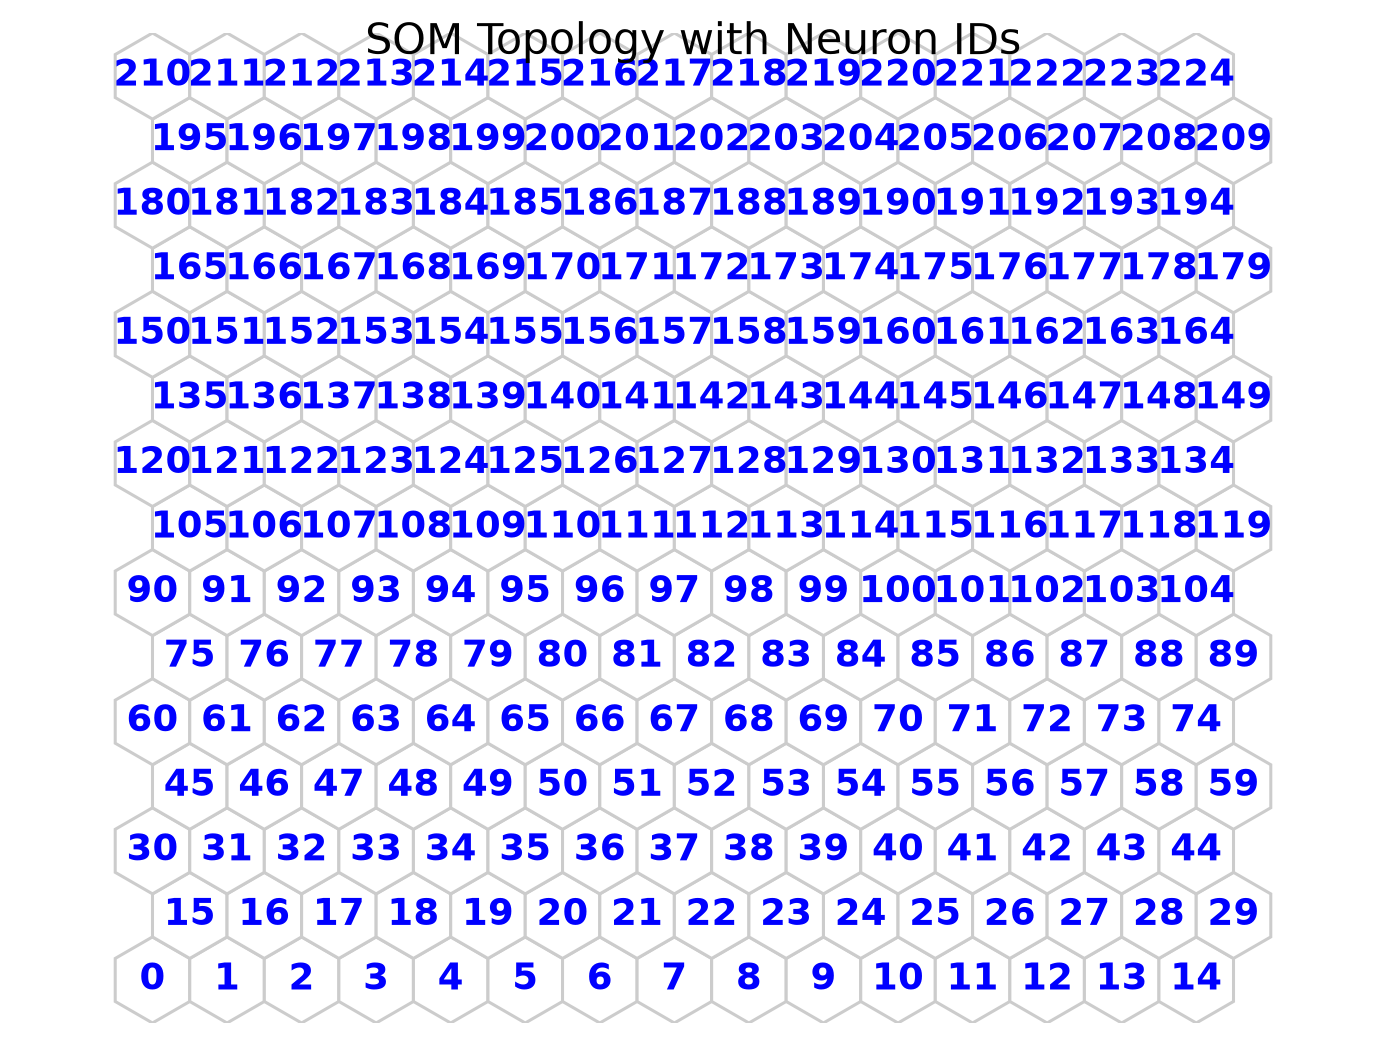
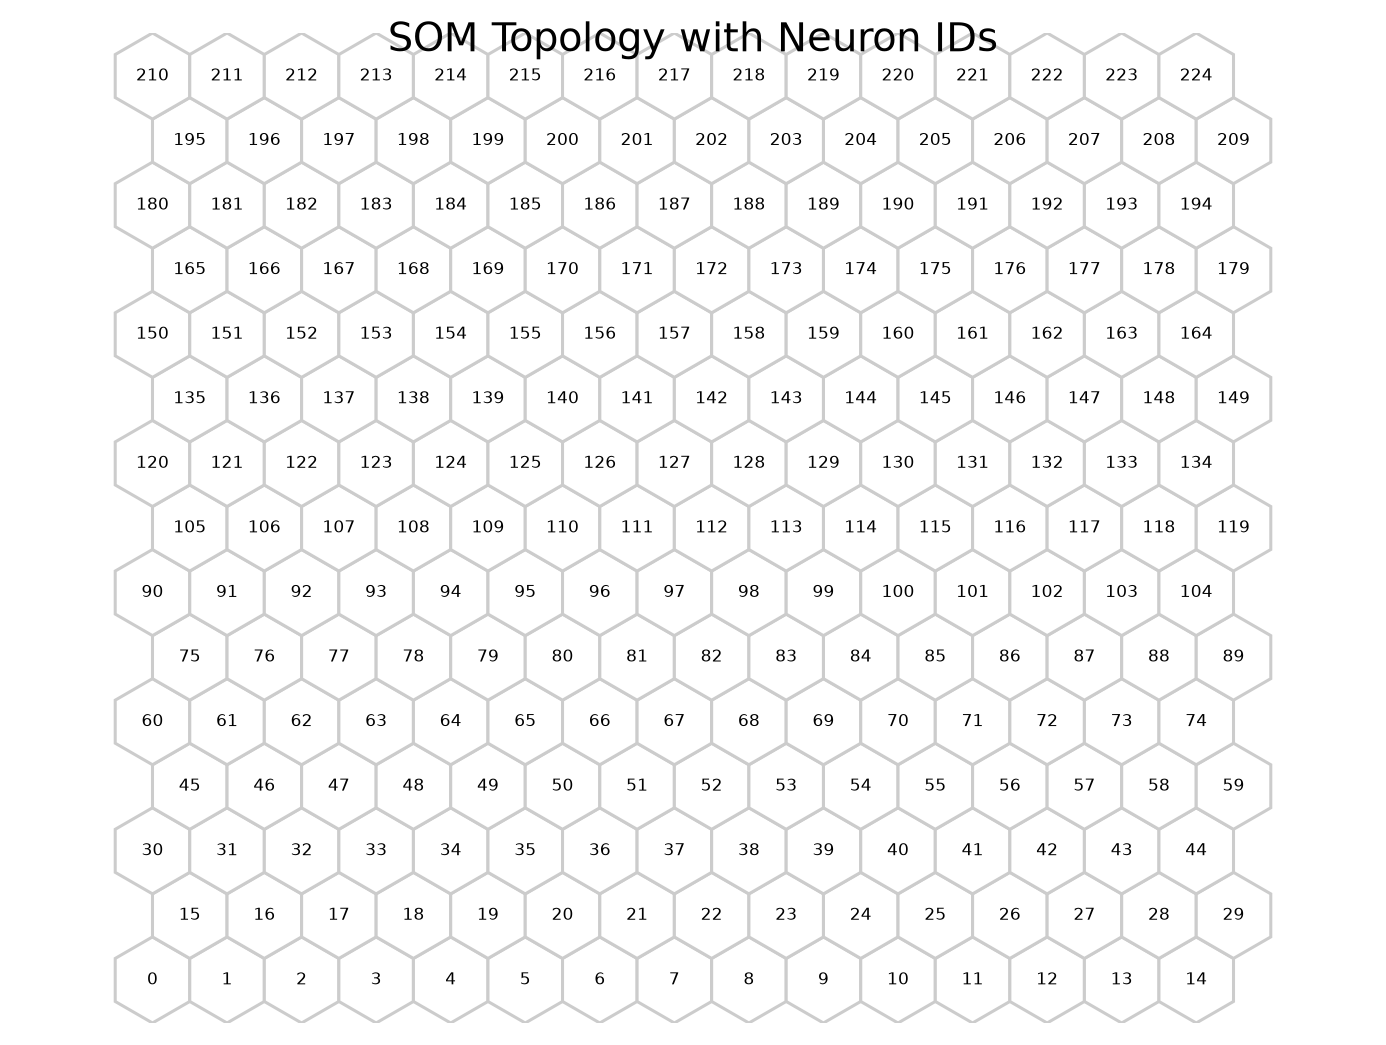
Edited som visualization .md file and updated plots
# Conflicts:
#	reports/Markdown_Report/v1_mnist/som_15x15_visualizations.md

diff --git a/src/v1_mnist/component/visualization/som_visualizations.py b/src/v1_mnist/component/visualization/som_visualizations.py
@@ -19,6 +19,7 @@ from pathlib import Path
 import matplotlib.pyplot as plt
 import matplotlib.colors as mcolors
 import numpy as np
+import matplotlib.patheffects as path_effects
 from NNSOM.utils import (
     count_classes_in_cluster,
     get_edge_widths,
@@ -27,6 +28,61 @@ from NNSOM.utils import (
     get_perc_misclassified,
     majority_class_cluster,
 )
+
+
+def _restyle_dense_som_text(result, plot_type: str) -> None:
+    """Improve label readability on dense 15x15 SOM plots.
+
+    NNSOM uses relatively large default text for numbered topology and hit
+    histograms.  For a 15x15 SOM, restyle those labels before the figure is
+    saved.
+    """
+
+    if not (
+        isinstance(result, tuple)
+        and len(result) >= 4
+    ):
+        return
+
+    text_objects = result[3]
+
+    if text_objects is None:
+        return
+
+    # Numbered SOM topology: small black labels on white hexagons.
+    if plot_type == "top_num":
+        for text_obj in text_objects:
+            text_obj.set_fontsize(5.5)
+            text_obj.set_color("black")
+            text_obj.set_fontweight("normal")
+            text_obj.set_path_effects([])
+
+    # Hit histograms: use adaptive size because counts vary from one digit
+    # to four or more digits.  Black text is requested; the thin white
+    # outline keeps it legible over dark inner hit hexagons.
+    elif plot_type == "hit_hist":
+        for text_obj in text_objects:
+            label = text_obj.get_text().strip()
+
+            if len(label) >= 4:
+                font_size = 3.8
+            elif len(label) == 3:
+                font_size = 4.5
+            else:
+                font_size = 5.0
+
+            text_obj.set_fontsize(font_size)
+            text_obj.set_color("black")
+            text_obj.set_fontweight("normal")
+            text_obj.set_path_effects(
+                [
+                    path_effects.Stroke(
+                        linewidth=1.0,
+                        foreground="white",
+                    ),
+                    path_effects.Normal(),
+                ]
+            )
 
 
 def save_figure(
@@ -72,7 +128,6 @@ def save_figure(
     plt.close(fig)
 
     return saved
-
 
 def build_data_dict(
     som,
@@ -138,6 +193,11 @@ def save_nnsom_plot(
         **kwargs,
     )
 
+    _restyle_dense_som_text(
+        result,
+        plot_type,
+    )
+
     if (
         isinstance(result, tuple)
         and len(result) > 0
@@ -153,9 +213,18 @@ def save_nnsom_plot(
         fig = plt.gcf()
 
     if title:
+        title_size = (
+            13
+            if plot_type in {
+                "top_num",
+                "hit_hist",
+            }
+            else 14
+        )
+
         fig.suptitle(
             title,
-            fontsize=14,
+            fontsize=title_size,
         )
 
     return save_figure(
